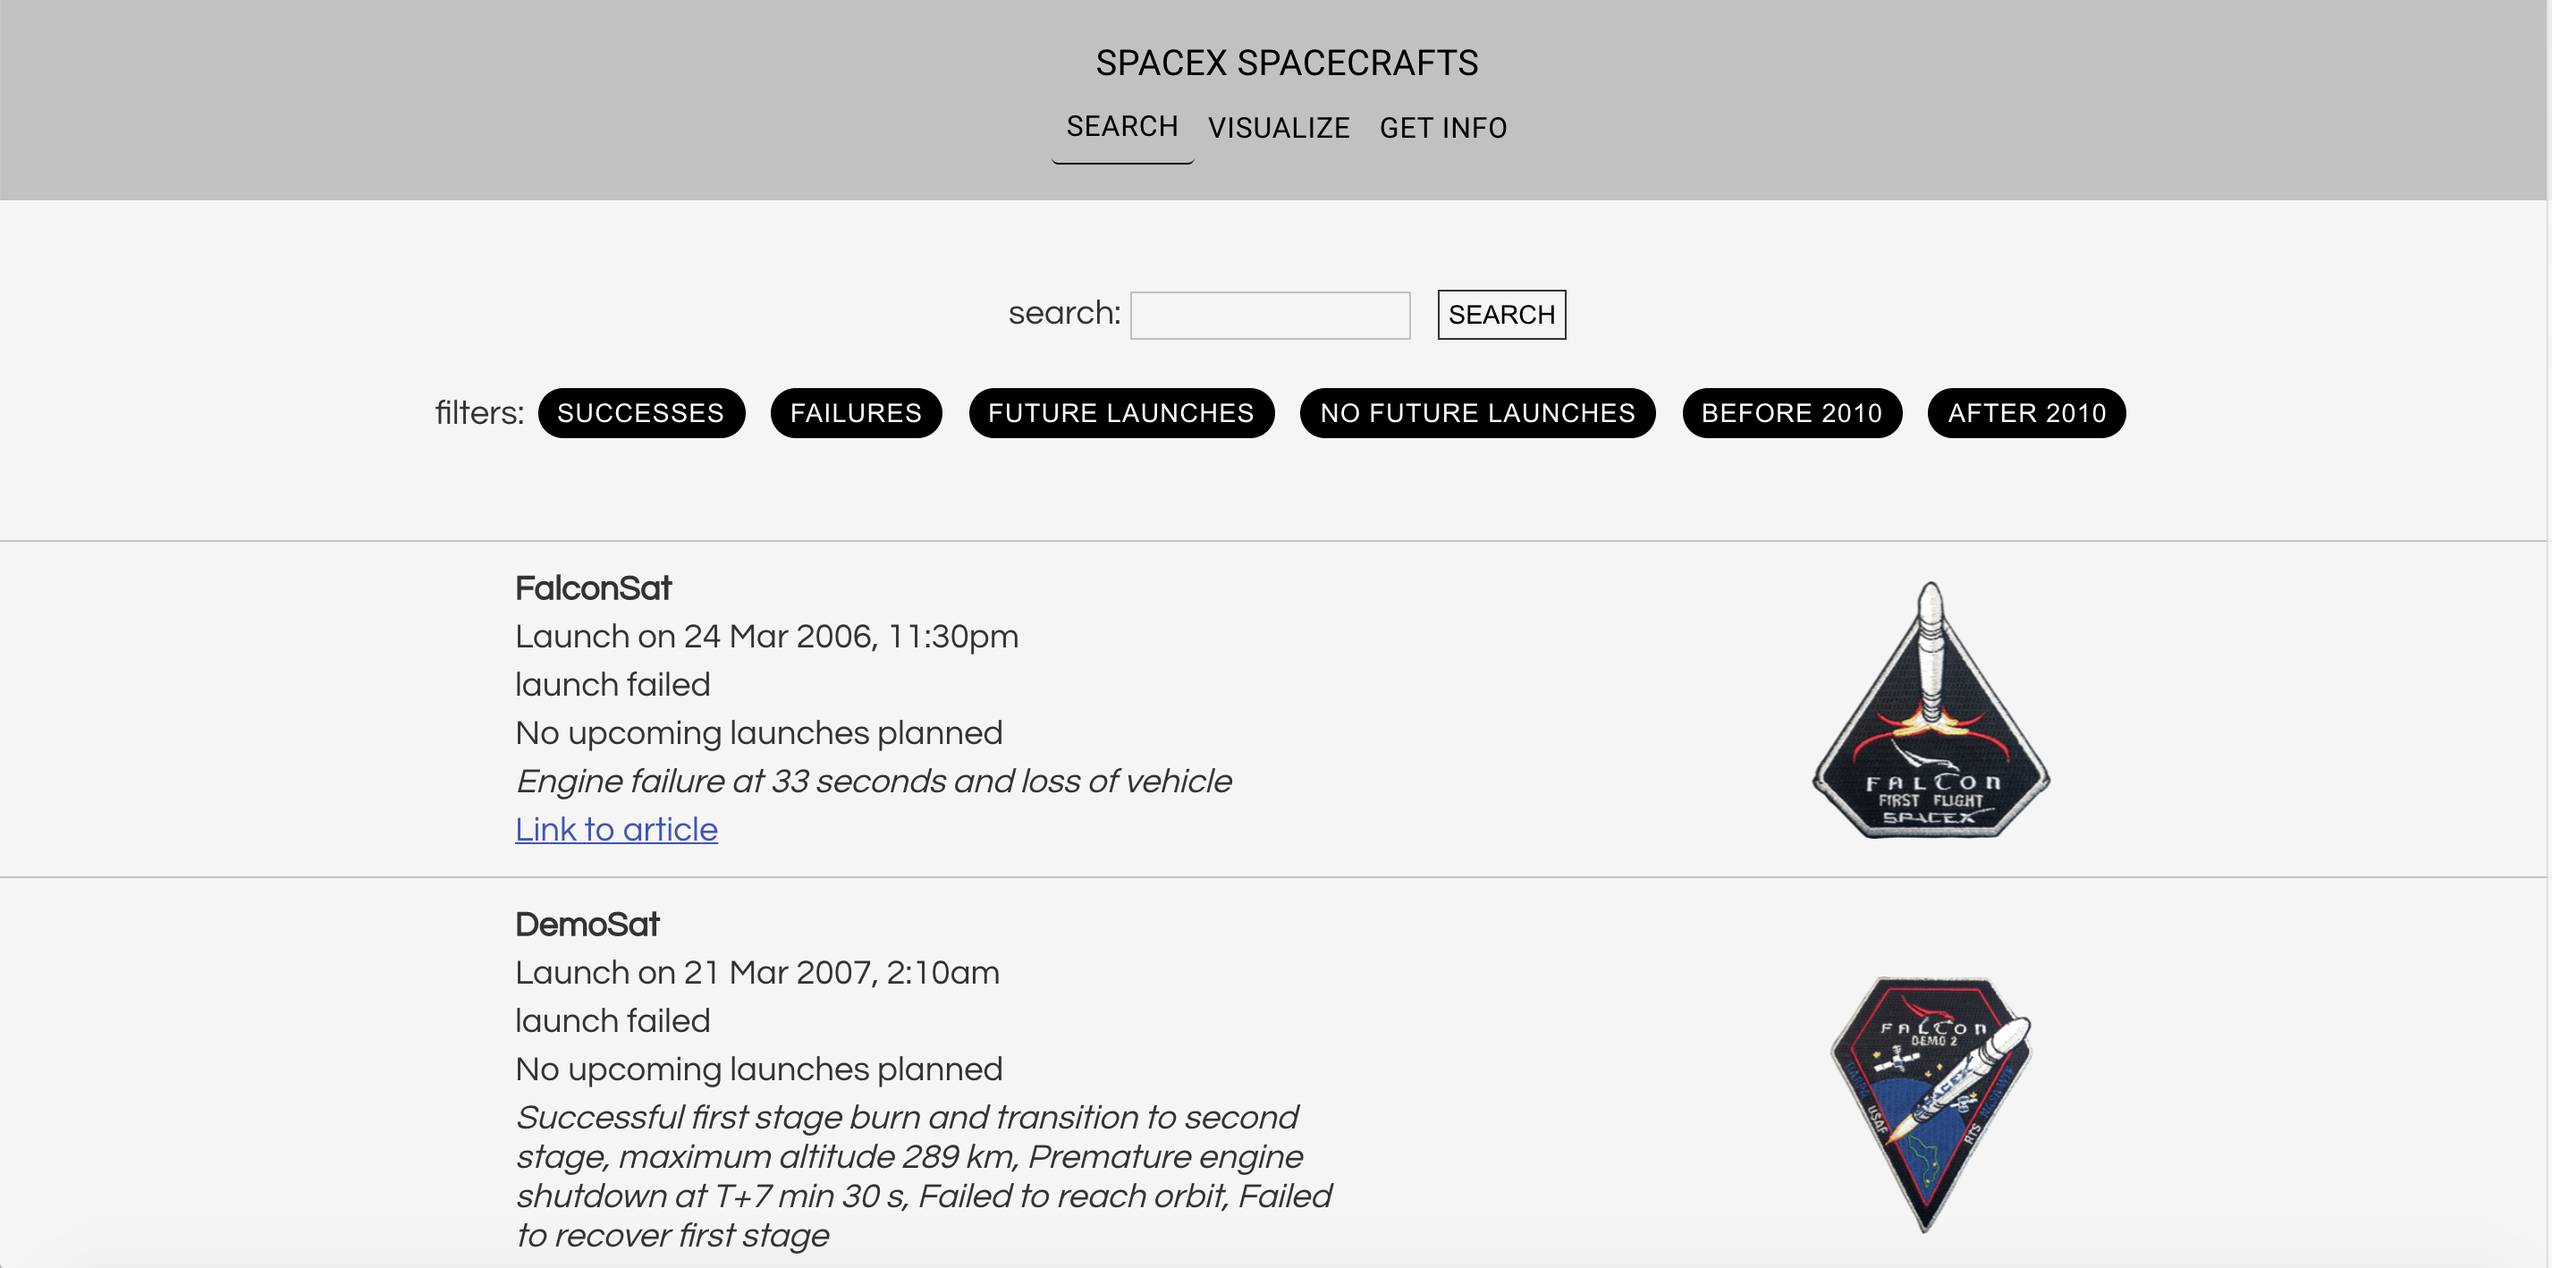
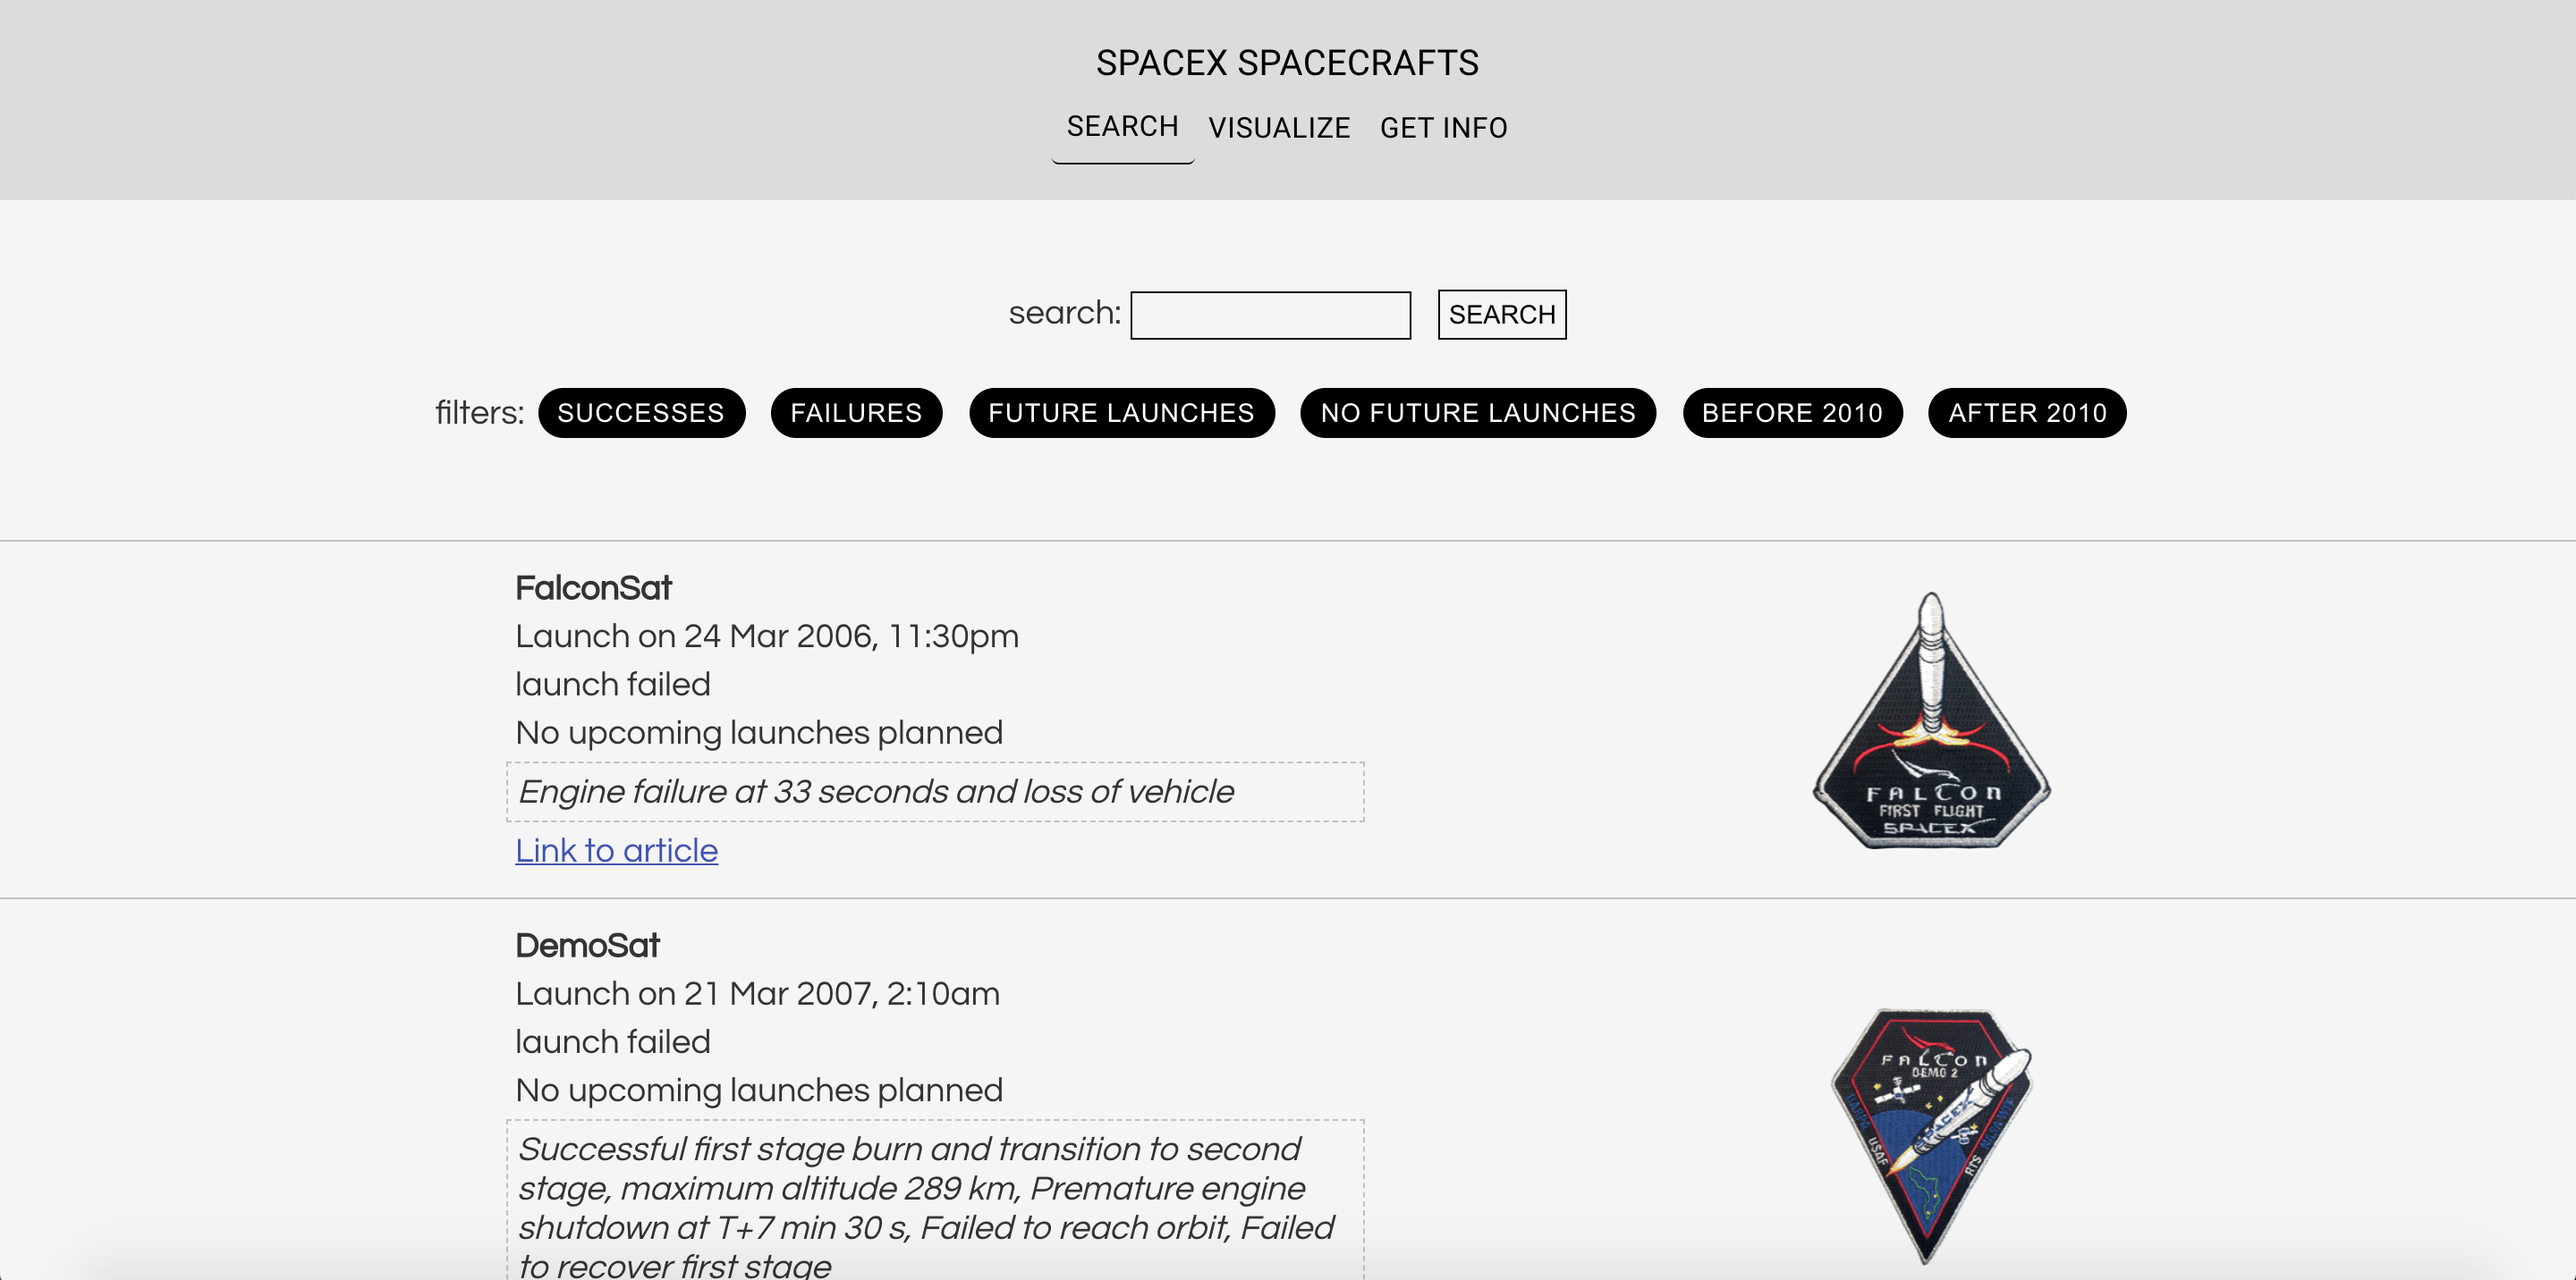
improved search

diff --git a/src/LaunchesData.js b/src/LaunchesData.js
@@ -28,6 +28,7 @@ const SearchInput = styled.input`
   background-color: transparent;
 `;
 
+//LaunchesData component
 function LaunchesData() {
   const [data, setData] = useState(false);
   const [loading, setLoading] = useState(true);
@@ -48,10 +49,10 @@ function LaunchesData() {
   //infinite scroll
   const [nextResults, setNextResults] = useState(8);
 
+  //fetching data in redux store
   const info = useSelector(state => state.users);
 
-  console.log("history", history);
-
+  //infinite scroll
   useEffect(() => {
     const getScroll = () => {
       if (
@@ -82,6 +83,7 @@ function LaunchesData() {
     return () => window.removeEventListener("scroll", getScroll);
   }, [history, nextResults]);
 
+  //display fetched data
   useEffect(() => {
     if (info) {
       const res = [];
@@ -223,8 +225,6 @@ function LaunchesData() {
       return after2010;
     });
 
-    console.log("after2010", after2010);
-
     setHistory(after2010);
 
     const after2010Res = [];
@@ -250,10 +250,13 @@ function LaunchesData() {
 
     let res = [];
 
-    history.filter(elem => {
+    const regex = RegExp(searchValue, "gi");
+
+    history.map(elem => {
       if (elem.name) {
         let name = elem.name;
-        if (name.split(" ").includes(searchValue)) {
+
+        if (regex.test(name)) {
           res.push(elem);
         }
       }
@@ -261,7 +264,7 @@ function LaunchesData() {
       if (elem.date_local) {
         const date = elem.date_local;
 
-        if (date.split("-").includes(searchValue)) {
+        if (regex.test(date)) {
           res.push(elem);
         }
       }
@@ -269,7 +272,7 @@ function LaunchesData() {
       if (elem.details) {
         const details = elem.details;
 
-        if (details.split(" ").includes(searchValue)) {
+        if (regex.test(details)) {
           res.push(elem);
         }
       }
@@ -291,10 +294,12 @@ function LaunchesData() {
     }
 
     setResetResultsOn(true);
-    setHistory(info);
-    setData(res);
     setReset(false);
     setResetSearch(false);
+
+    setHistory(info);
+    setData(res);
+
     setFailuresSelected(false);
     setSuccessSelected(false);
     setFutureLaunchesSelected(false);
@@ -405,13 +410,19 @@ function LaunchesData() {
               data-testid="launch"
             >
               <div className="details">
-                <span className="details name"> {launch.name} </span>
+                <span className="details name">{launch.name}</span>
                 <span className="details">
                   Launch on&nbsp;
                   <Timestamp
                     date={launch.date_unix}
                     options={{ includeDay: false, twentyFourHour: false }}
                   />
+                  {console.log(
+                    <Timestamp
+                      date={launch.date_unix}
+                      options={{ includeDay: false, twentyFourHour: false }}
+                    />
+                  )}
                 </span>
                 <span className="details">
                   {launch.success === null

diff --git a/src/App.scss b/src/App.scss
@@ -140,13 +140,17 @@ div.filtering {
 }
 
 button.reset {
-  @include button($grey, black, transparent);
+  @include button($greyHeader, black, transparent);
   outline: none;
 }
 
 div.filtering {
   display: flex;
   align-items: center;
+}
+
+.yellow {
+  background-color: yellow;
 }
 
 /* SPACEX DATA */
@@ -211,8 +215,8 @@ img.ship-image {
   font-style: italic;
   width: 65%;
   border: 1px dashed $grey;
-  padding: 15px;
-  margin-left: -15px;
+  padding: 5px;
+  margin-left: -5px;
 }
 
 /* DATA VIZ */
@@ -221,7 +225,7 @@ div.data-viz-container {
   justify-content: center;
   width: 100%;
   min-height: 100vh;
-  padding-top: 100px;
+  padding-top: 50px;
 }
 
 @media (max-width: 1000px) {

diff --git a/README.md b/README.md
@@ -15,12 +15,12 @@ The app is fully responsive and features infinite scroll.
 
 ## Future improvements
 
-- add a text highlight feature for search (currently working on this!)
+- add a text highlight feature for search
 - add more tests
 
 ## Tech
 
-**Stack**: SASS/SCSS, JavaScript, React, Redux, Redux Thunk, chart.js, Jest <br/>
+**Stack**: JavaScript, React, SASS/SCSS, styled-components, Redux, Redux Thunk, chart.js, Jest <br/>
 **Deployment**: Netlify
 
 ## Visuals
